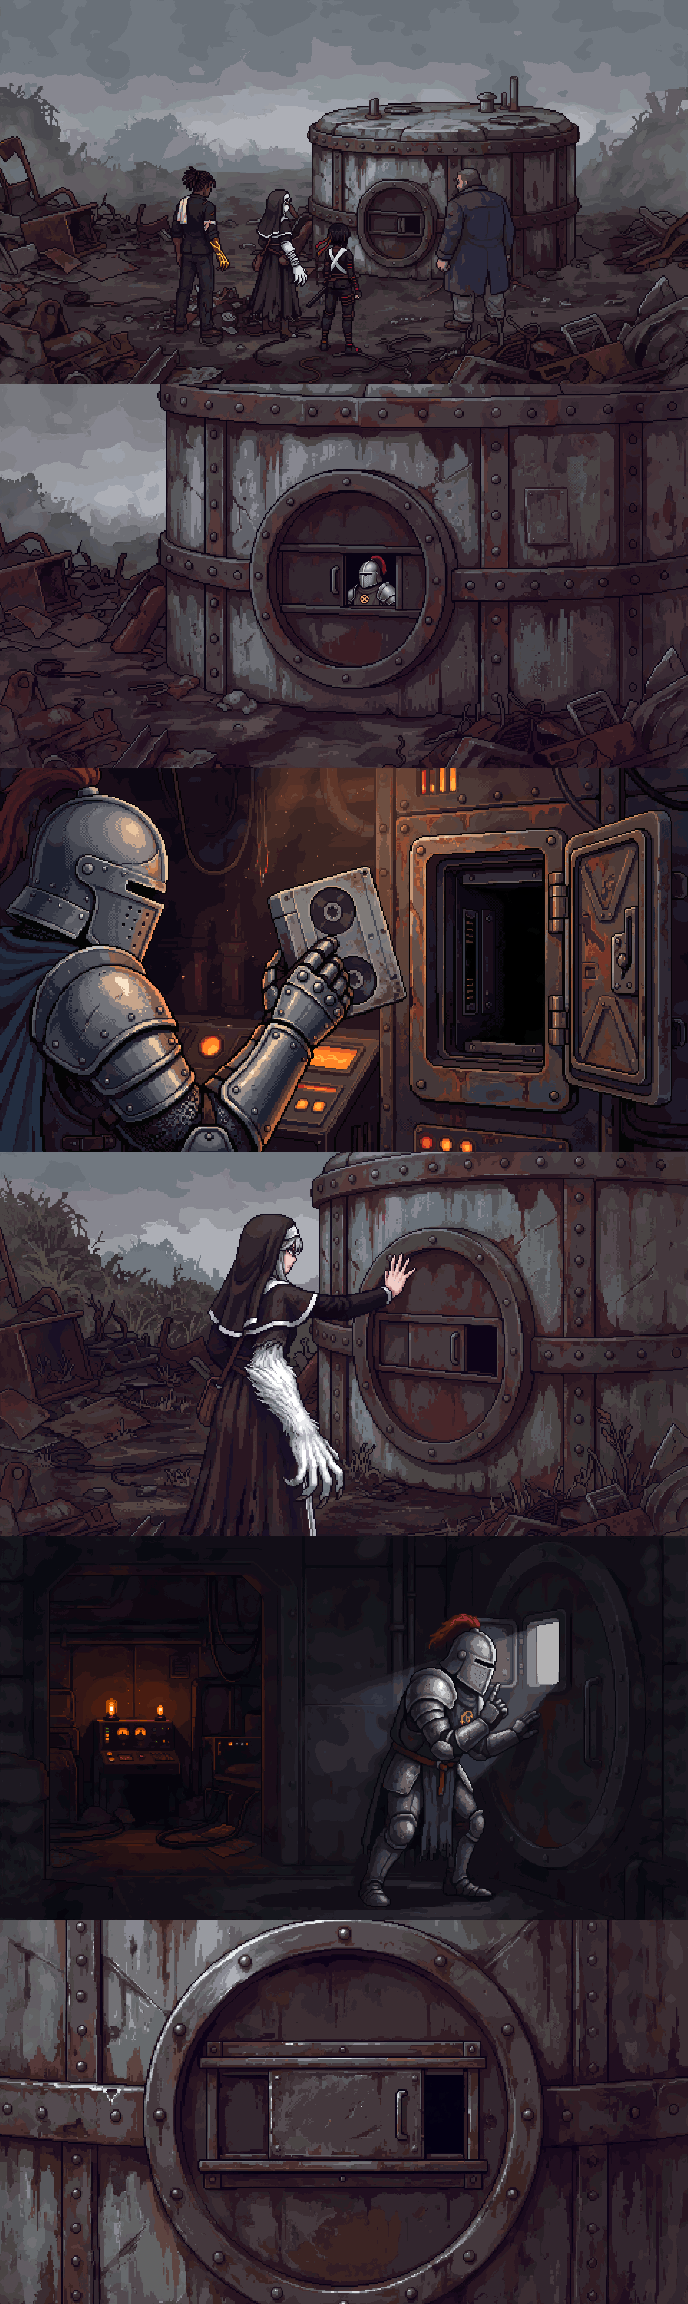
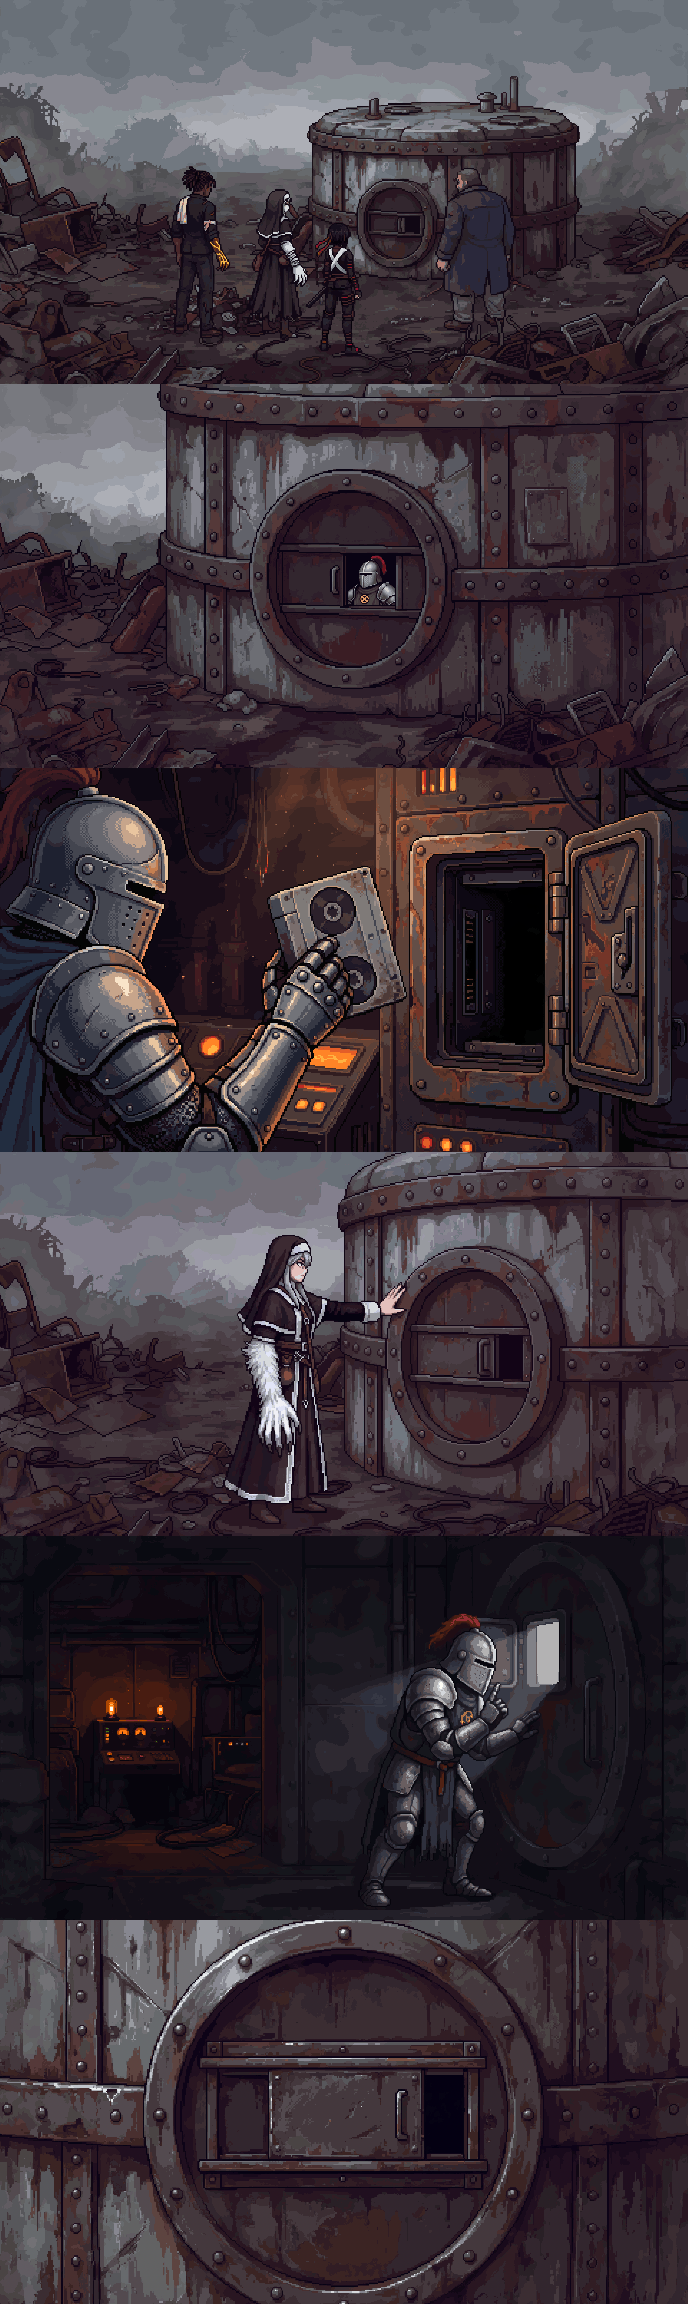
Mira gets one arm from each shoulder at the bunker hatch; one cat at the Honoured Guest fire
The bunker's 'Then restore her.' still had Mira's human arm reaching to the door and her wolf arm
hanging over her skirt, both from the near shoulder. Redrawn with PixelLab: the wolf arm is now the
near arm hanging at her side and her human hand reaches across from the far side. The cat-stew
'Honoured Guest.' still had the cat beside the pot and a second one still in it, left over from the
wide shot; painted out from the background around it.

Claude-Session: https://claude.ai/code/session_01Mqbwb3vBTod3APyq2XNhsx

Changed region(s): [[0.0, 0.5, 1.0, 0.6875]]

diff --git a/game/CREDITS.md b/game/CREDITS.md
@@ -24,11 +24,11 @@ Everything here was first made for or gathered by the first game, [Isekai'd Into
 | The first game's people seven years on, and Grandma Wen as she always looks (`assets/img/portraits/` `aigerim-neutral`, `ayo-neutral`, `bru-smile`, `bru-neutral`, `chad-neutral`, `gary-neutral`, `kaito-neutral`, `mio-neutral`, `wen-neutral`, `wen-smile`, replacing those in the row above) | Generated for this game with [PixelLab](https://pixellab.ai) on Ladi's subscription on 2026-10-21 (`generate-image-v2`): each drawn from the character's first-game portrait (Isekai'd Into Prod) as the likeness, aged seven years (Wen not at all), with this game's earlier portrait as the style image; Ladi's picks, scaled up 3x with hard pixel edges. `bru-neutral` is `bru-smile` with the mouth and cheeks repainted to a neutral face by Google's Gemini image model (gemini-3-pro-image-preview) through the Gemini API on Ladi's account, snapped back to the portrait's own pixels and colours | Used under PixelLab's [Terms of Service](https://pixellab.ai/termsofservice) and the [Gemini API Additional Terms of Service](https://ai.google.dev/gemini-api/terms) | Faces in dialogue |
 | Chapter 5's cutscenes from Lina's Voice to the Lanterns Go Out, and all of Chapter 6's (`assets/img/cut/` `linas-voice`, `linas-voice-dawn`, `the-ledgers`, `the-button`, `a-deal`, `backoff`, `turned-on`, `the-record`, `the-record-ev1`, `the-record-ev2`, `the-record-dark`, `the-shift`, `the-rail`, `the-rail-hold`, `the-rail-let`, `she-nearly-did`, `the-lanterns-go-out`, `the-day-gary-quit`, `the-offer-on-the-jetty`, `the-mirror`, `the-ring-in-the-bunker`, `the-clock-room-intro`, `the-clock-room`, `the-confrontation`, `the-confrontation-shore`, `the-confrontation-copy`, `the-confrontation-bravo`, `no-my-lady`, `switched-sides`, `kagemarus-choice`, `the-backlog`, `the-freed-floors`, each a sheet of 16:9 shots) | Generated for this game with [PixelLab](https://pixellab.ai) on Ladi's subscription on 2026-10-22 (`generate-image-v2`), one still per storyboard shot (`storyboard/ch5`, `storyboard/ch6`), with the cast's portraits as likeness references (young Gary in 1984 from his first-game portrait); a few stills touched up by Google's Gemini image model (gemini-3-pro-image-preview) through the Gemini API on Ladi's account. Stacked into sheets by the cutscene pipeline's `gen.py --export` | Used under PixelLab's [Terms of Service](https://pixellab.ai/termsofservice) and the [Gemini API Additional Terms of Service](https://ai.google.dev/gemini-api/terms) | Chapter 5 and 6 cutscenes (`js/cut-ch5b.js`, `js/cut-ch6.js`) |
 | Chapter 2's cutscene stills (`assets/img/cut/` `floor-seven`, `freya-visits`, `hale-escapes`, `she-did-my-taxes`, `sunlight`, `the-dispatches`, `the-grey-novice`, `thornwick-freed`, `three-one-four-cart`, `tilly`, `two-prayers`, `unmake-it`, `uptima-in-chains`, `uptima-reads-the-prayer`, `what-he-felt`, each a sheet of 16:9 shots, and the ghost frames `freya-back` and `freya-projection`) | Generated for this game with [PixelLab](https://pixellab.ai) on Ladi's subscription on 2026-10-22 (`generate-image-v2`), one still per storyboard shot (`storyboard/ch2`), with the cast's portraits as likeness references; `three-one-four-cart` redrawn the same day under its own name. Stacked into sheets by the cutscene pipeline's `gen.py --export` | Used under PixelLab's [Terms of Service](https://pixellab.ai/termsofservice) | Chapter 2's cutscenes, in place of the vector stills (`js/cut-ch2.js`) |
-| Chapter 2's first-half cutscene stills (`assets/img/cut/` `brams-wagon`, `the-edge`, `the-tower`, `the-scrap-field`, `the-bunker`, `elder-wren`, `the-first-fire`, `thornwick-square`, `the-post-box`, `mira-doesnt-answer`, `the-sorting-floors`, `floors-grow-back`, `shipped`, each a sheet of 16:9 shots) | Generated for this game with [PixelLab](https://pixellab.ai) on Ladi's subscription on 2026-10-22 (`generate-image-v2`), one still per storyboard shot (`storyboard/ch2a`), with the cast's portraits as likeness references (Coo, Elder Wren and Pip from their portraits). Stacked into sheets by the cutscene pipeline's `gen.py --export` | Used under PixelLab's [Terms of Service](https://pixellab.ai/termsofservice) | Chapter 2's first-half cutscenes, in place of the vector stills (`js/cut-ch2a.js`) |
+| Chapter 2's first-half cutscene stills (`assets/img/cut/` `brams-wagon`, `the-edge`, `the-tower`, `the-scrap-field`, `the-bunker`, `elder-wren`, `the-first-fire`, `thornwick-square`, `the-post-box`, `mira-doesnt-answer`, `the-sorting-floors`, `floors-grow-back`, `shipped`, each a sheet of 16:9 shots) | Generated for this game with [PixelLab](https://pixellab.ai) on Ladi's subscription on 2026-10-22 (`generate-image-v2`), one still per storyboard shot (`storyboard/ch2a`), with the cast's portraits as likeness references (Coo, Elder Wren and Pip from their portraits); `the-bunker` shot 4 (Mira at the hatch) redrawn the same way on 2026-10-24 to give her one arm from each shoulder. Stacked into sheets by the cutscene pipeline's `gen.py --export` | Used under PixelLab's [Terms of Service](https://pixellab.ai/termsofservice) | Chapter 2's first-half cutscenes, in place of the vector stills (`js/cut-ch2a.js`) |
 | The last drawn cutscenes of Chapters 5 and 6 (`assets/img/cut/` `iris-at-the-gate`, `linas-chart`, `freya-at-camp`, each a sheet of 16:9 shots) | Generated for this game with [PixelLab](https://pixellab.ai) on Ladi's subscription on 2026-10-23 (`generate-image-v2`), one still per storyboard shot (`storyboard/ch56x`), with the cast's portraits as likeness references. Stacked into sheets by the cutscene pipeline's `gen.py --export` | Used under PixelLab's [Terms of Service](https://pixellab.ai/termsofservice) | Professor Iris Vell, Lina's chart and Freya at camp, in place of the vector backdrops (`js/cut-ch56x.js`) |
 | The painted glitch twins (`assets/img/cut/<cutscene>-<shot>-painted.webp`: `uptima-in-chains-3`, `freya-visits-3`, `thornwick-freed-1`, `the-jar-2`, `tell-her-yourself-4`, `jins-echo-4`, `two-tapes-one-4`, `the-ledgers-2`, `the-offer-on-the-jetty-4`, `the-mirror-2`) | Painted for this game by Google's Gemini image model (gemini-3-pro-image-preview) through the Gemini API on Ladi's account on 2026-10-22, each from its pixel still as the reference so the two line up (the cutscene pipeline's `paint.py`); `uptima-in-chains-3` is the earlier painted version of that shot | Used under the [Gemini API Additional Terms of Service](https://ai.google.dev/gemini-api/terms) | The glitch between painted and pixel art in those shots (`js/cut-ch2.js` to `cut-ch6.js`) |
 | Seymour's notes under the hatch (`assets/img/cut/seymours-notes.webp`, four 16:9 shots) | Generated for this game with [PixelLab](https://pixellab.ai) on Ladi's subscription on 2026-10-22 (`generate-image-v2`, one still of a blank page at the foot of the bunker's hatch); the notes' English words lettered onto the page in pixel capitals with Pillow, set in DejaVu Sans Mono Bold (Bitstream Vera licence) | Used under PixelLab's [Terms of Service](https://pixellab.ai/termsofservice); DejaVu fonts under their [free licence](https://dejavu-fonts.github.io/License.html) | Seymour's notes in chapter 2 and chapter 6 (`js/c2-world.js`, `js/c6-world.js`) |
-| The marsh cat's cutscenes (`assets/img/cut/` `cat-stew`, `cat-fish`, `cat-forms`, `cat-cable`, `cat-mirror`, each a sheet of 16:9 shots) | Generated for this game with [PixelLab](https://pixellab.ai) on Ladi's subscription on 2026-10-23 (`generate-image-v2`), one still per storyboard shot (`storyboard/cat.md`), with the cat's concept art (option A3, also PixelLab) and the cast's portraits as likeness references; Dutch's hair in two stills and a glow on the lake recoloured in code by the cutscene pipeline (`recolor.py`, no model). Stacked into sheets by the pipeline's `gen.py --export` | Used under PixelLab's [Terms of Service](https://pixellab.ai/termsofservice) | The marsh cat's beat in chapters 2b to 6 (`js/cut-cat.js`) |
+| The marsh cat's cutscenes (`assets/img/cut/` `cat-stew`, `cat-fish`, `cat-forms`, `cat-cable`, `cat-mirror`, each a sheet of 16:9 shots) | Generated for this game with [PixelLab](https://pixellab.ai) on Ladi's subscription on 2026-10-23 (`generate-image-v2`), one still per storyboard shot (`storyboard/cat.md`), with the cat's concept art (option A3, also PixelLab) and the cast's portraits as likeness references; Dutch's hair in two stills and a glow on the lake recoloured in code by the cutscene pipeline (`recolor.py`, no model); on 2026-10-24 a second cat left in the stew pot in `cat-stew` shot 3 was painted out in code from the background around it (no model). Stacked into sheets by the pipeline's `gen.py --export` | Used under PixelLab's [Terms of Service](https://pixellab.ai/termsofservice) | The marsh cat's beat in chapters 2b to 6 (`js/cut-cat.js`) |
 | The five backdrops seen outside cutscenes (`assets/img/vn/` `c2-fire`, `c2-office`, `c3-kitchen`, `c3-abyss`, `c3-gallery`): the Free Cloud's first fire, Coo's post office counter in camp, Kai's kitchen table with the shoebox of receipts, the bottom of the Abyss and the cathedral gallery | Generated for this game with [PixelLab](https://pixellab.ai) on Ladi's subscription on 2026-10-23 (`generate-image-v2`, one 16:9 still each), from the drawn scenes they replace and the matching cutscene stills as place and style references (`the-first-fire`, `the-scrap-field`, `shipped`, `tax-season`, `nobody-asked`, and the cathedral gallery's plate), framed with the subject in the middle for a phone held upright | Used under PixelLab's [Terms of Service](https://pixellab.ai/termsofservice) | The camp's stage backdrops in chapter 2 (`js/vec-scenes2.js`, `js/vec-ch2.js`, `js/c2x-art.js`), the Tax Season minigame (`js/c3-games.js`) and chapter 3's raid fight backdrops (`js/c3-raid.js`), in place of the vector drawings |
 | Game-icons.net (137-icon subset in `assets/game-icons.js`) | https://game-icons.net, via the npm package `@iconify-json/game-icons` 1.2.4. Icons by Lorc, Delapouite and other contributors listed at https://game-icons.net/about.html | [CC BY 3.0](https://creativecommons.org/licenses/by/3.0/) | Card art, map nodes, story props |
 
